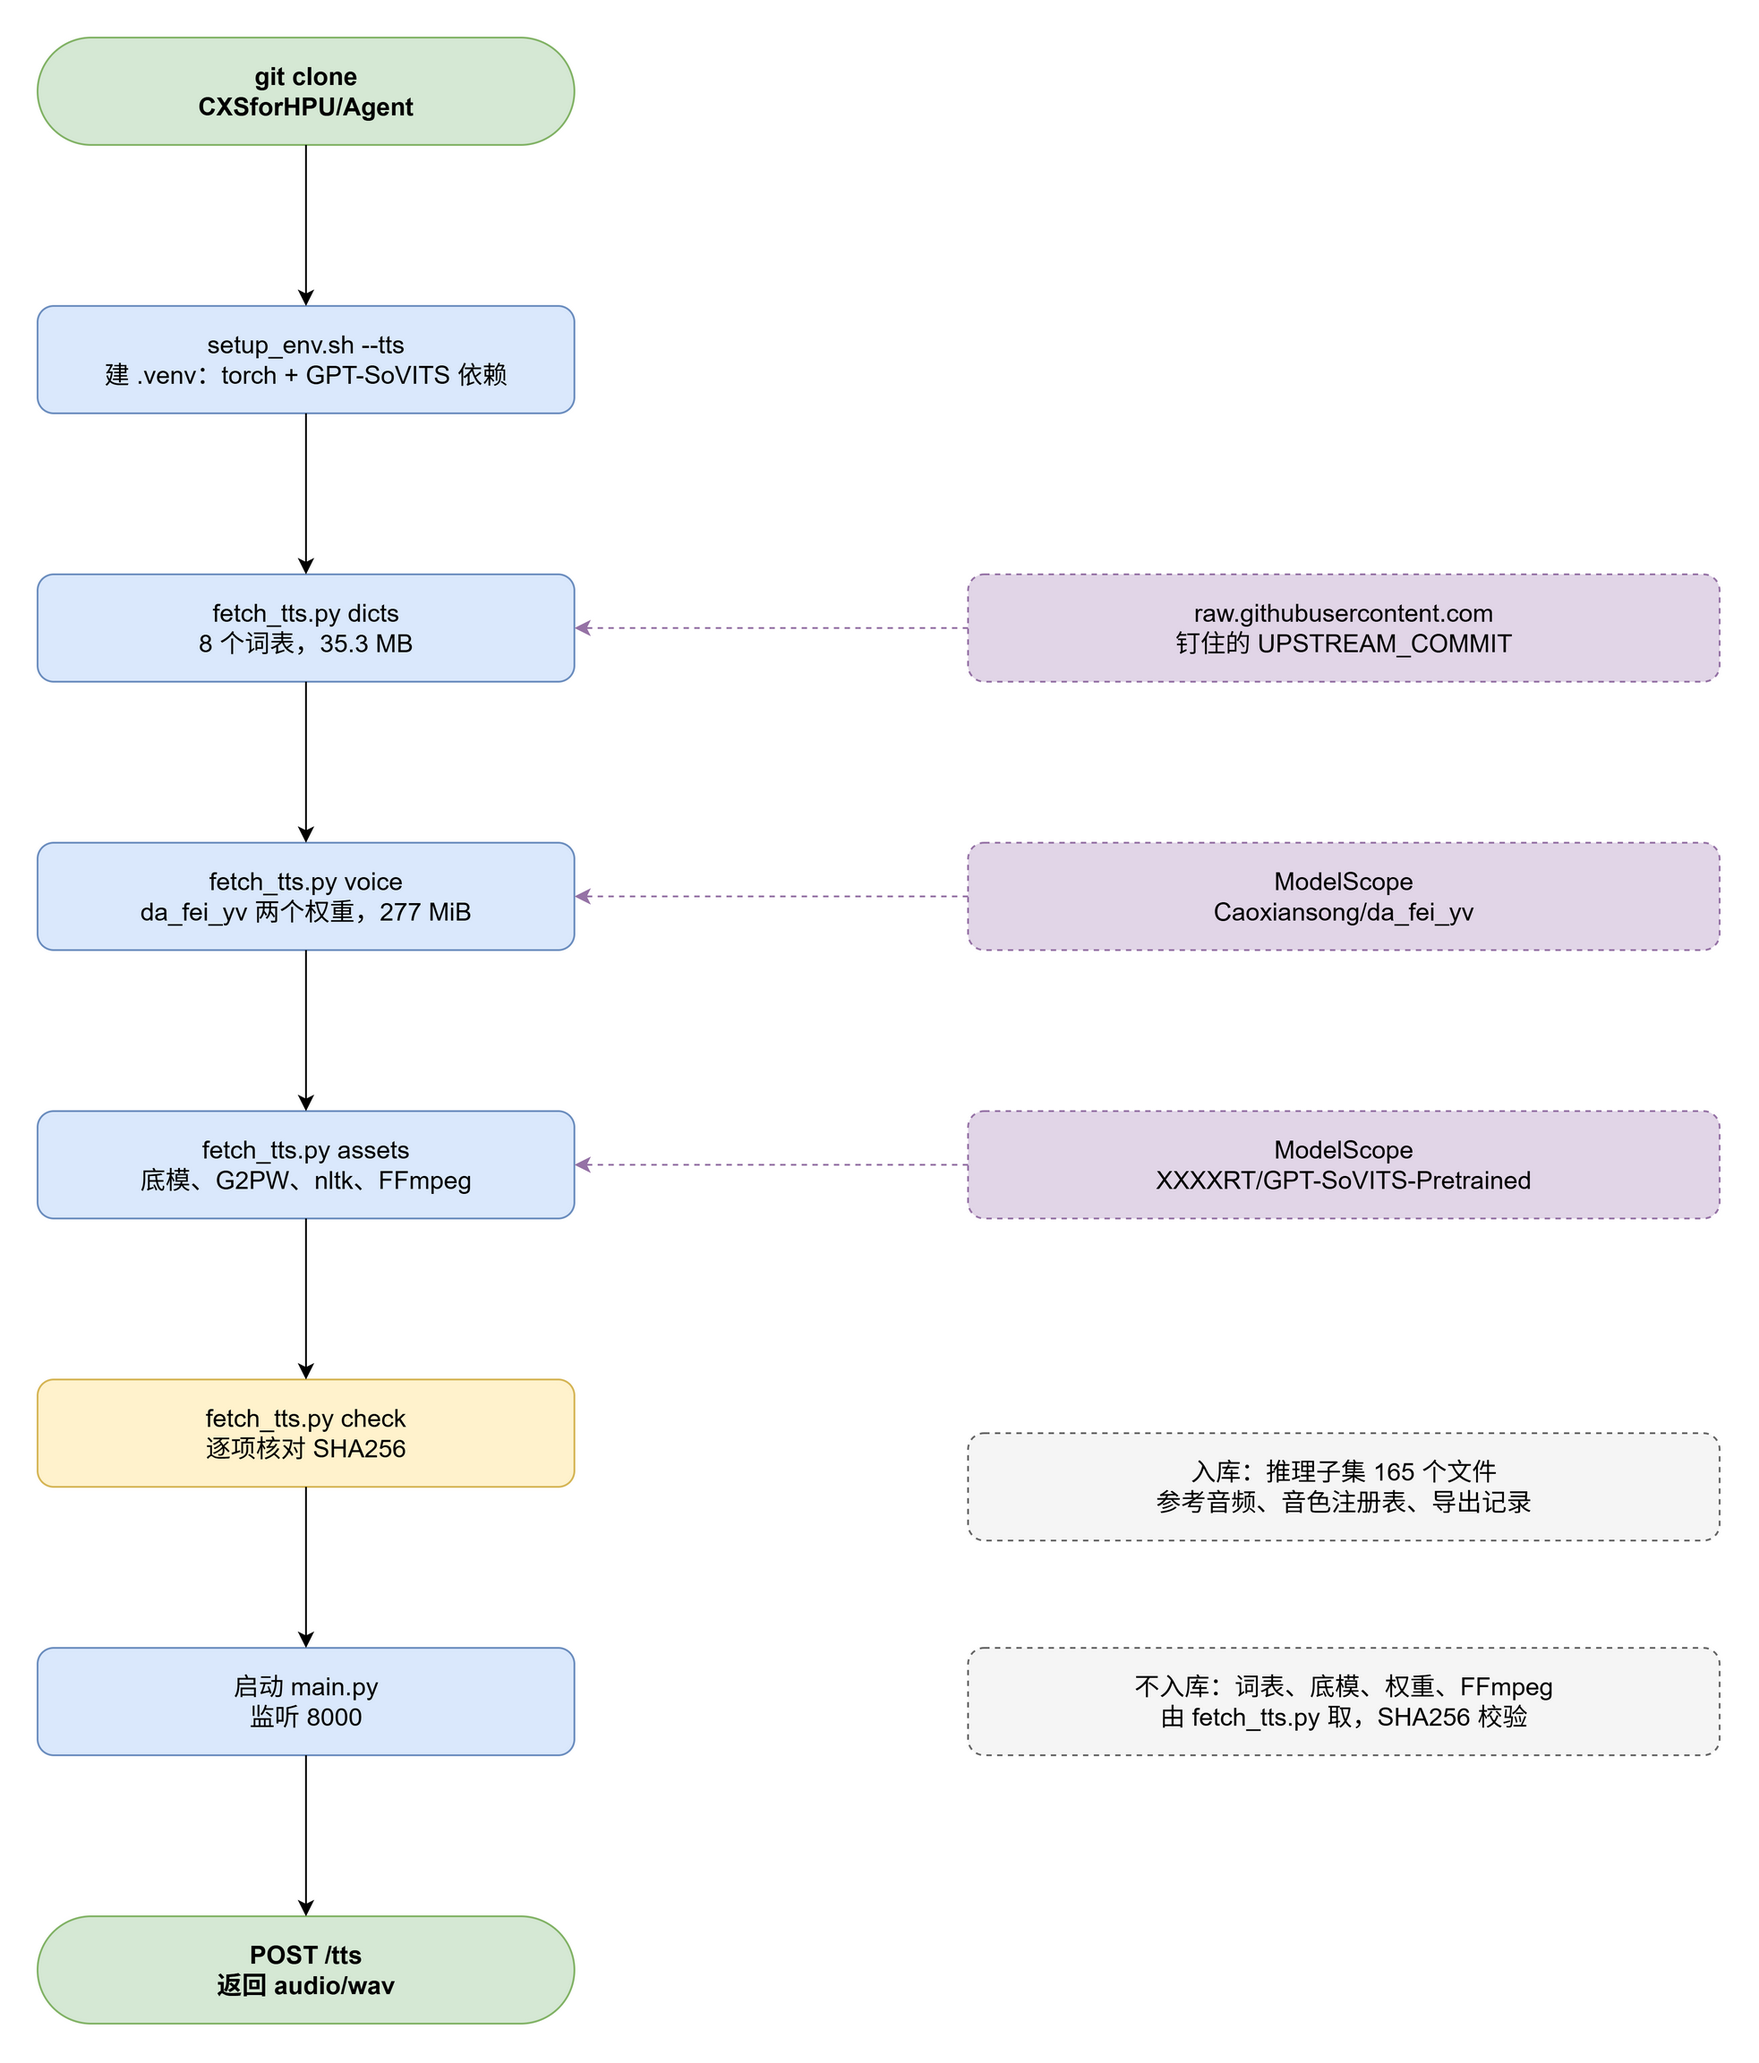
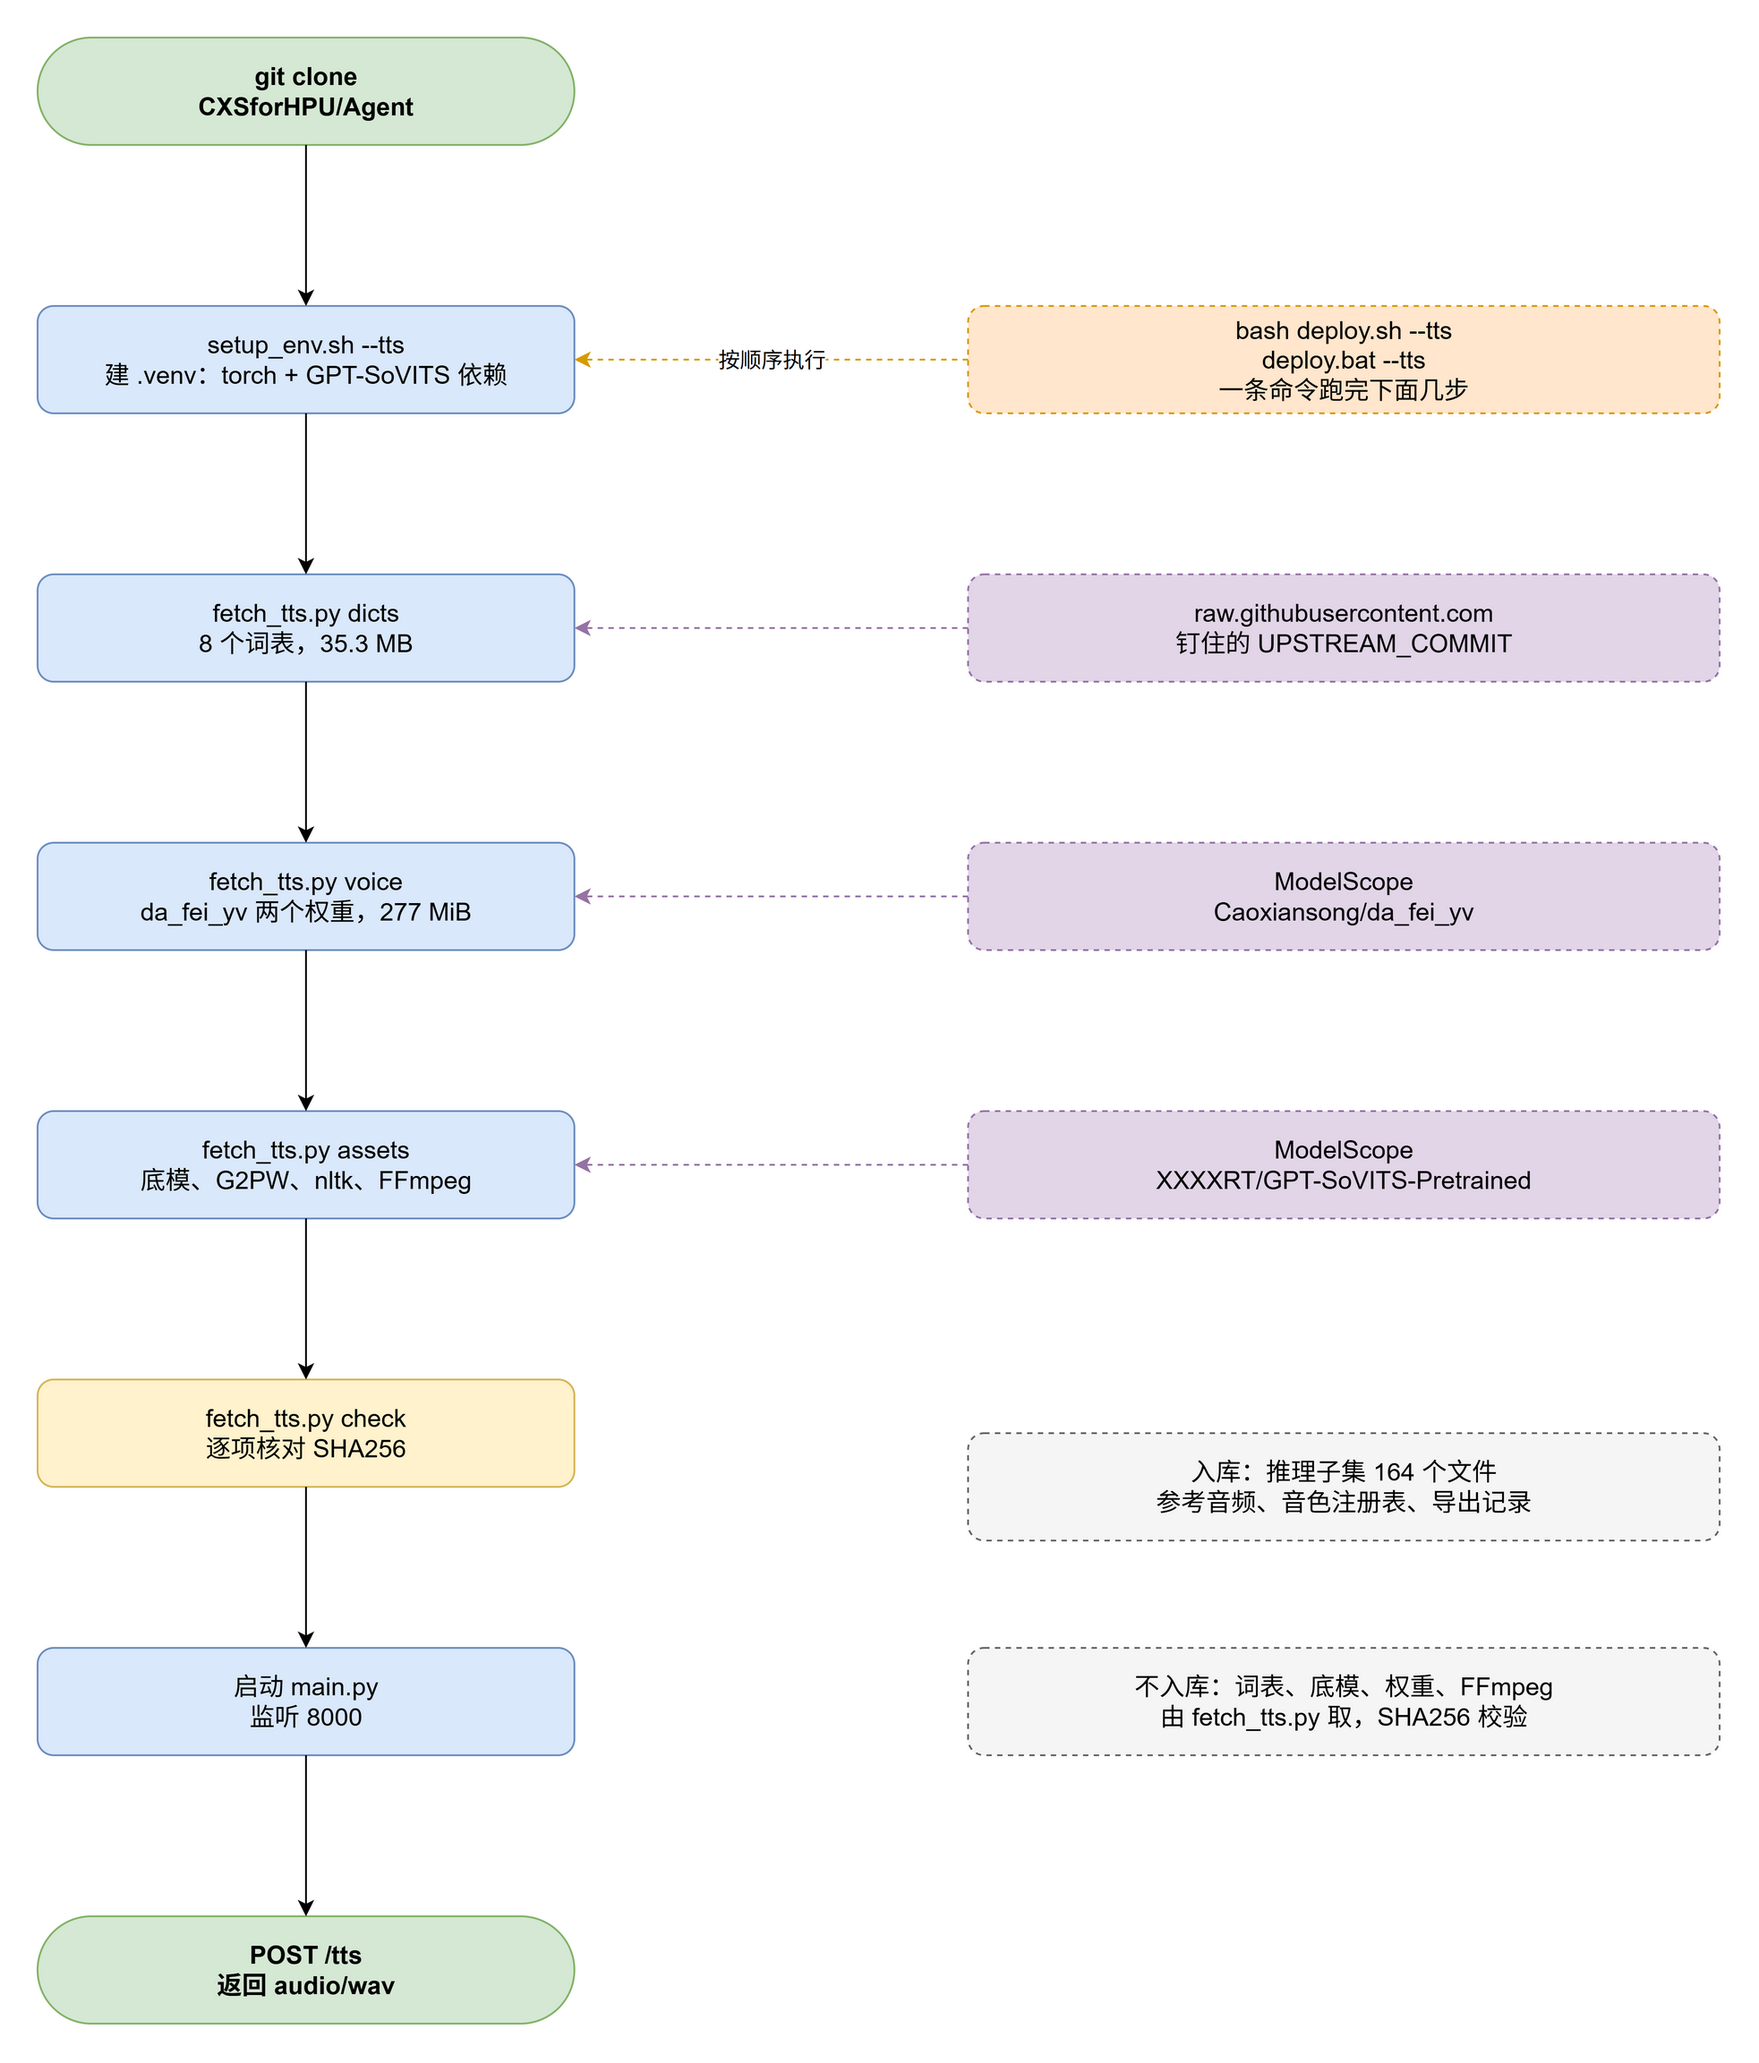
[file_server] 增加 bash 与批处理部署启动脚本
deploy.sh 与 deploy.bat 把装配环境、拉第三方资产、自检、起服务串成一条命令，
两边的参数一一对应：--tts、--check、--start-only、--port、--host、--autoload、
--cpu/--cu126/--cu130。批处理把环境装配交给 setup_env.ps1，自身只做编排。

uv sync 会剪掉锁文件里没有的包，eunjeon 被剪后只剩空目录，还能当命名空间包导入，
所以脚本查的是 distribution 元数据；补装 eunjeon 与 setuptools<81，
因为 eunjeon 依赖 setuptools 84 已经删掉的 pkg_resources。

main.py 改读 HOST 与 PORT 环境变量，脚本才能换监听地址。
polyphonic.md5 是 G2PW 词典重建时改写的缓存标记，值跟仓库行尾和拉取的词表有关，
不入库。

Changed region(s): [[0.5277, 0.1249, 0.9934, 0.2187], [0.4036, 0.1562, 0.4656, 0.1874]]

diff --git a/resource/file_server/main.py b/resource/file_server/main.py
@@ -540,6 +540,6 @@ if __name__ == "__main__":
     # 限制最大请求50MB，根据你的场景修改
     uvicorn.run(
         app,
-        host="0.0.0.0",
-        port=8000,
+        host=os.getenv("HOST", "0.0.0.0"),
+        port=int(os.getenv("PORT", "8000")),
     )

diff --git a/resource/file_server/third_party/gpt-sovits-infer/README.md b/resource/file_server/third_party/gpt-sovits-infer/README.md
@@ -8,11 +8,11 @@
 - 提交：`b4570b876f5c086819ba84e3215472733c6a7b70`（2026-10-19，fix(streaming): 支持 API v2 语义流式文本切分 #2850）
 - 许可：MIT，`LICENSE` 原样保留，版权归 RVC-Boss
 - 文件内容未改动，只做取舍。改动过哪个文件就记在这里，目前没有。
-- 158 个文件与上游 commit 比，LF 归一后逐字节相同，差异只剩行尾：上游 clone 用 `core.autocrlf=true` checkout，落地是 CRLF；`git add` 时本仓库的 autocrlf 再折回 LF。折回去的结果是 129 个 blob 哈希与上游一致，剩下 29 个（`Accel/` 下的引擎文件、`text/korean.py`、`text/cantonese.py`、`process_ckpt.py`、`sv.py`、`tools/audio_sr.py` 等）上游自己就把 CRLF 提交进了 git，入库后只差行尾。
+- 157 个文件与上游 commit 比，LF 归一后逐字节相同，差异只剩行尾：上游 clone 用 `core.autocrlf=true` checkout，落地是 CRLF；`git add` 时本仓库的 autocrlf 再折回 LF。折回去的结果是 128 个 blob 哈希与上游一致，剩下 29 个（`Accel/` 下的引擎文件、`text/korean.py`、`text/cantonese.py`、`process_ckpt.py`、`sv.py`、`tools/audio_sr.py` 等）上游自己就把 CRLF 提交进了 git，入库后只差行尾。
 
 ## 怎么选出来的
 
-判据是运行时真实加载的文件，不是目录猜测。跑一次中文合成（v2 权重、大肥鱼音色），记录 `sys.modules` 里属于上游的 .py，共 97 个；再按目录规则放宽，补上其它语种的文本模块和各包的 `__init__.py`。这样落进来的是 158 个上游文件（119 个 .py，1.38 MB），加上上游 `LICENSE`、本说明、一份音色注册表和自家音色的 6 个文件，仓库里一共 165 个文件。
+判据是运行时真实加载的文件，不是目录猜测。跑一次中文合成（v2 权重、大肥鱼音色），记录 `sys.modules` 里属于上游的 .py，共 97 个；再按目录规则放宽，补上其它语种的文本模块和各包的 `__init__.py`。这样落进来的是 157 个上游文件（119 个 .py，1.38 MB），加上上游 `LICENSE`、本说明、一份音色注册表和自家音色的 6 个文件，仓库里一共 164 个文件。
 
 重抽或升级用上层的维护脚本：
 
@@ -54,6 +54,8 @@ python extract_infer.py --apply  # 复制进来
 `refs/` 与 `tts_speakers/` 入库，是本工程自训的 `da_fei_yv` 音色：参考音频 0.3 MB、一份导出记录、一份提示词文本和一个三字段注册表。两个权重分别是 148 MiB 与 129 MiB，GitHub 收不下，放在 ModelScope 的 `Caoxiansong/da_fei_yv`，由 `fetch_tts.py voice` 拉进 `GPT_weights_v2Pro/` 与 `SoVITS_weights_v2Pro/` 并校验 SHA256。训练数据是 CC BY-NC 4.0，权重是衍生作品，同样受非商业与署名约束，详见 `../../README.md` 的「第三方与许可」。`GPT_weights_v2/` 与 `SoVITS_weights_v2/` 留空、放第三方 v2 权重用，被 `.gitignore` 挡住。
 
 `GPT_SoVITS/configs/tts_infer.yaml` 不入库。上游 `TTS_Config` 每次建管线都会把解析后的权重绝对路径写回这个文件，文件不在就先生成一份默认的（`TTS_infer_pack/TTS.py:451` 的 `_load_configs`）。跟踪进来只会让工作区一直是脏的。
+
+`GPT_SoVITS/text/g2pw/polyphonic.md5` 同样不入库。它记的是 `polyphonic.rep` 与 `polyphonic-fix.rep` 的 MD5，用来判断多音字词典要不要重建（`text/g2pw/g2pw.py:129` 算 MD5，`:143` 写回文件）。前者跟着仓库走，后者由 `fetch_tts.py dicts` 按 SHA256 钉住拉取，两边一变这个文件就被改写；它的值还跟平台行尾有关，入库只能存一份某一台机器算出来的结果。文件不在时运行时会重建词典并自己写一份。
 
 ## 许可与署名
 
